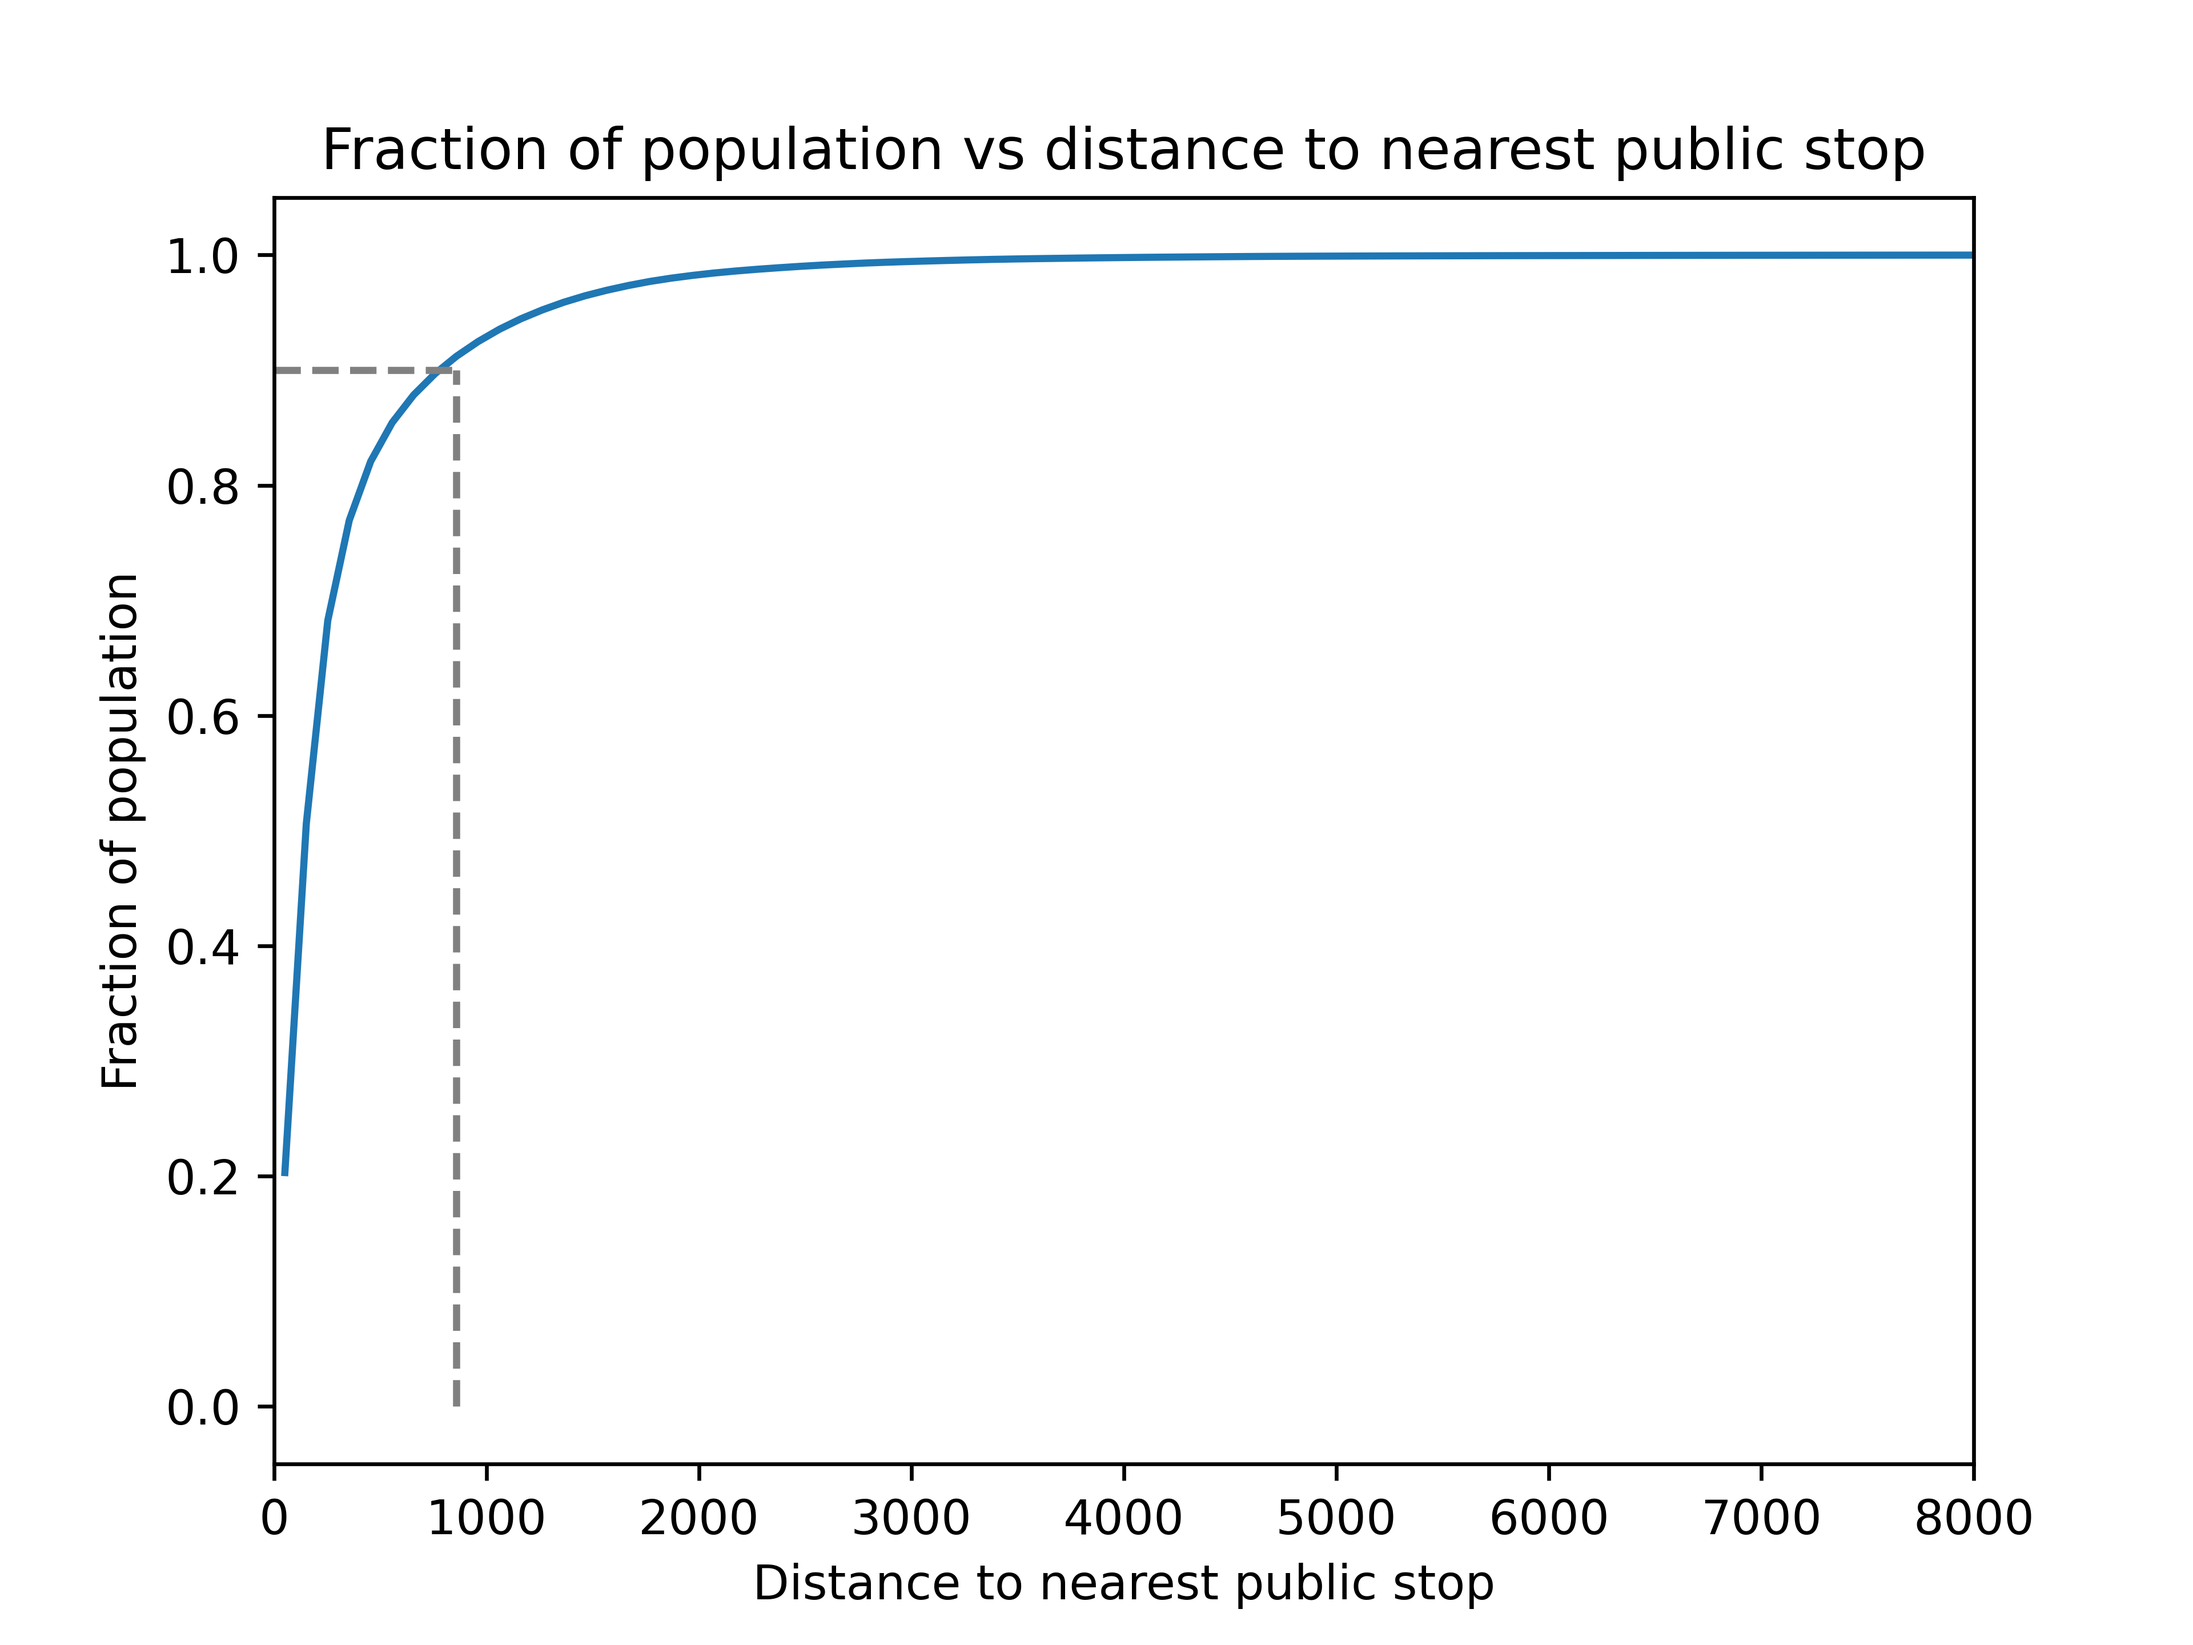
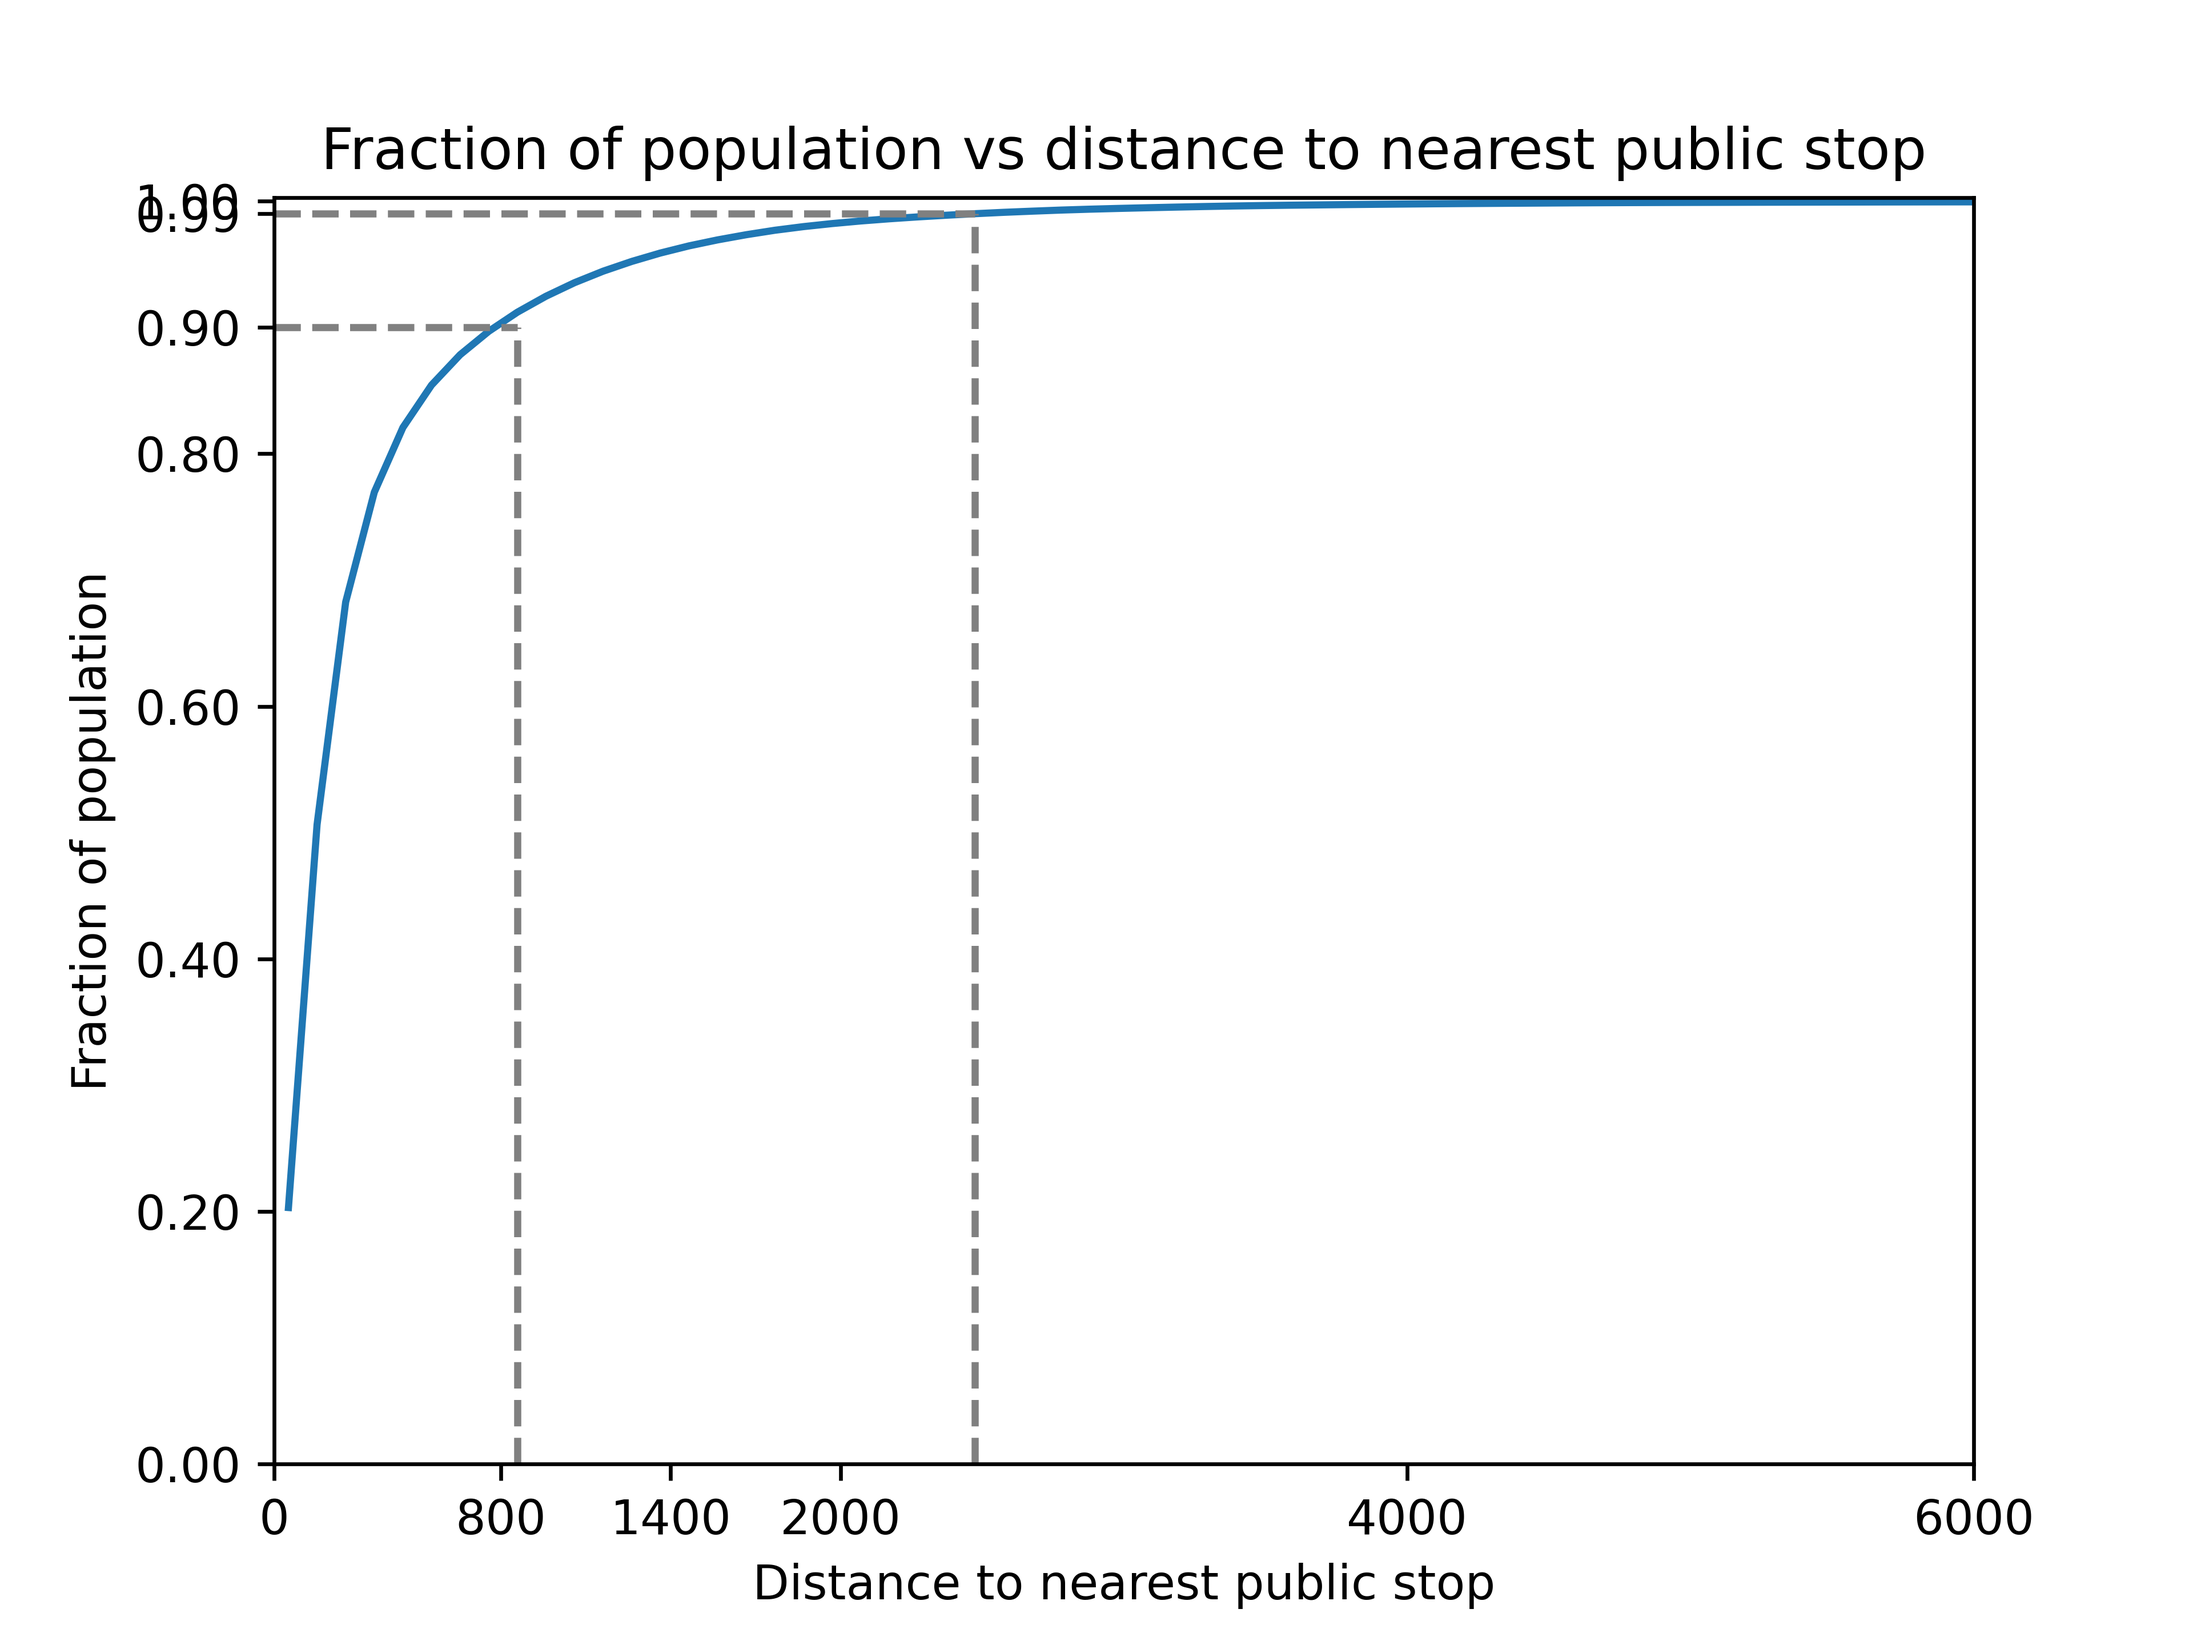
updated plots

diff --git a/utils.py b/utils.py
@@ -264,6 +264,51 @@ def get_station_density_and_distance():
     
     return station_density_coords
 
+def plot_cumsum(df, n = 0.9, m = 0.96, figname = 'figures/cumplot', dpi = 600):
+
+    df['density'] = df['density']/df['density'].sum() # make density sum to 1
+    
+    # Define bin edges for 'distance'
+    bin_edges = np.linspace(df['distance'].min(), df['distance'].max(), num=100)
+
+    # Use Pandas cut to bin 'distance' data
+    df['distance_binned'] = pd.cut(df['distance'], bins=bin_edges)
+
+    # Group by 'distance_binned' and calculate sum 'density'
+    grouped = df.groupby('distance_binned')['density'].sum().reset_index()
+
+    # Calculate cumulative sum of 'density'
+    grouped['cumulative_density'] = grouped['density'].cumsum()
+
+    # Calculate distance at which cumulative_density reaches 0.90
+    distance_at_90 = grouped[grouped['cumulative_density'] >= n]['distance_binned'].apply(lambda x: x.mid).iloc[0]
+    density_at_90 = grouped[grouped['cumulative_density'] >= n]['cumulative_density'].iloc[0]
+
+    distance_at_96 = grouped[grouped['cumulative_density'] >= m]['distance_binned'].apply(lambda x: x.mid).iloc[0]
+    density_at_96 = grouped[grouped['cumulative_density'] >= m]['cumulative_density'].iloc[0]
+
+    # Plot cumulative 'density' vs 'distance'
+    plt.plot(grouped['distance_binned'].apply(lambda x: x.mid), grouped['cumulative_density'])
+    plt.plot([0, distance_at_90], [n, n], color='grey', linestyle='--')  # horizontal line to intersection
+    plt.plot([distance_at_90, distance_at_90], [0, n], color='grey', linestyle='--')  # vertical line to intersection
+    plt.plot([0, distance_at_96], [m, m], color='grey', linestyle='--')  # horizontal line to intersection
+    plt.plot([distance_at_96, distance_at_96], [0, m], color='grey', linestyle='--')  # vertical line to intersection
+    plt.xlabel('Distance to nearest public stop')
+    plt.ylabel('Fraction of population')
+    plt.title('Fraction of population vs distance to nearest public stop')
+    yticks = plt.yticks()[0]
+    yticks = np.append(yticks, n)
+    yticks = np.append(yticks, m)
+    xticks = plt.xticks()[0]
+    xticks = np.append(xticks, 800)
+    xticks = np.append(xticks, 1400)
+    plt.yticks(yticks)
+    plt.xticks(xticks)
+    plt.xlim(0, 6000)
+    plt.ylim(0, 1.003)
+    plt.savefig(figname, dpi = dpi)
+    plt.show()
+
 def plot_hexbin(df, figname='figures/hexplot.png', dpi=600):
     # few density outliers prevent plotting
     df['density'] = p['density'].where(p['density'] <= 32, 32)
